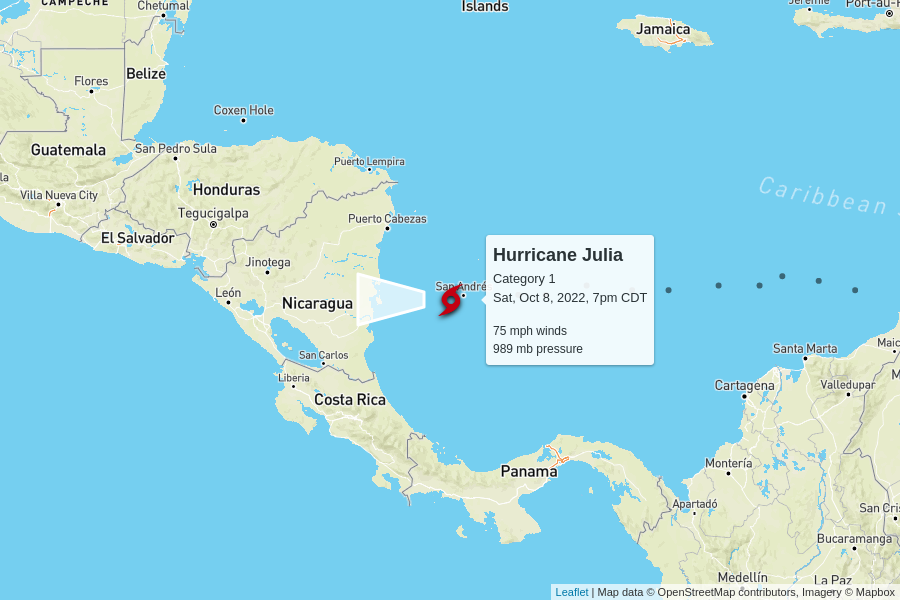
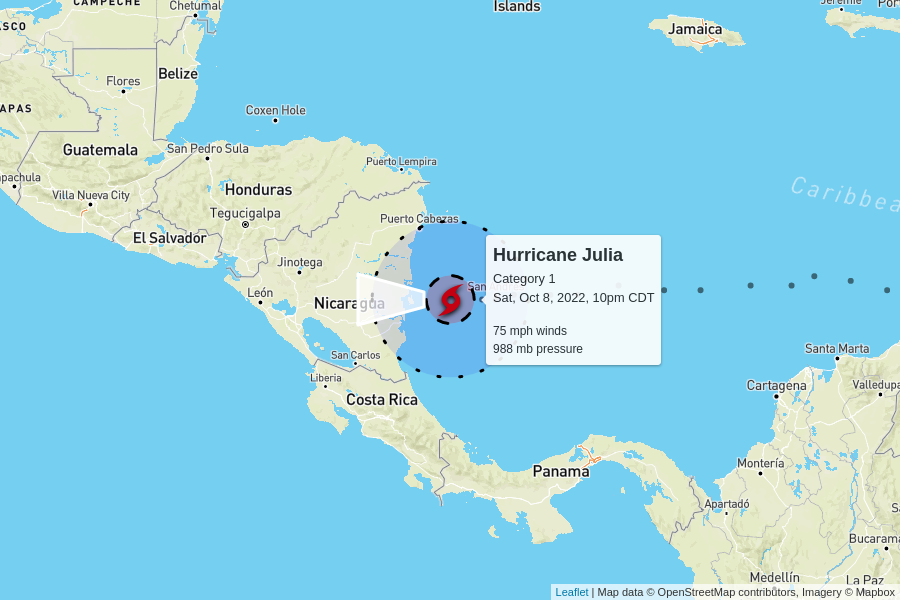
automatic update

diff --git a/docs/index.html b/docs/index.html
@@ -100,7 +100,7 @@
         <td colspan="6" class="storm category-1" >
           <h2>
             Hurricane Julia - Category 1
-            <p class="updated">last updated <span data-time>2022-10-09T00:00:00.000Z</span></p>
+            <p class="updated">last updated <span data-time>2022-10-09T03:00:00.000Z</span></p>
           </h2>
         </td>
       </tr>
@@ -116,9 +116,9 @@
       <tr>
         <td class="spacer"></td>
         <td>75 mph</td>
-        <td>989 mb</td>
+        <td>988 mb</td>
         <td>
-          17 mph to the west
+          16 mph to the west
           <br/>
           <span style="display: inline-block; font-size: 1.5em; transform: rotate(270deg);">↑</span>
         </td>
